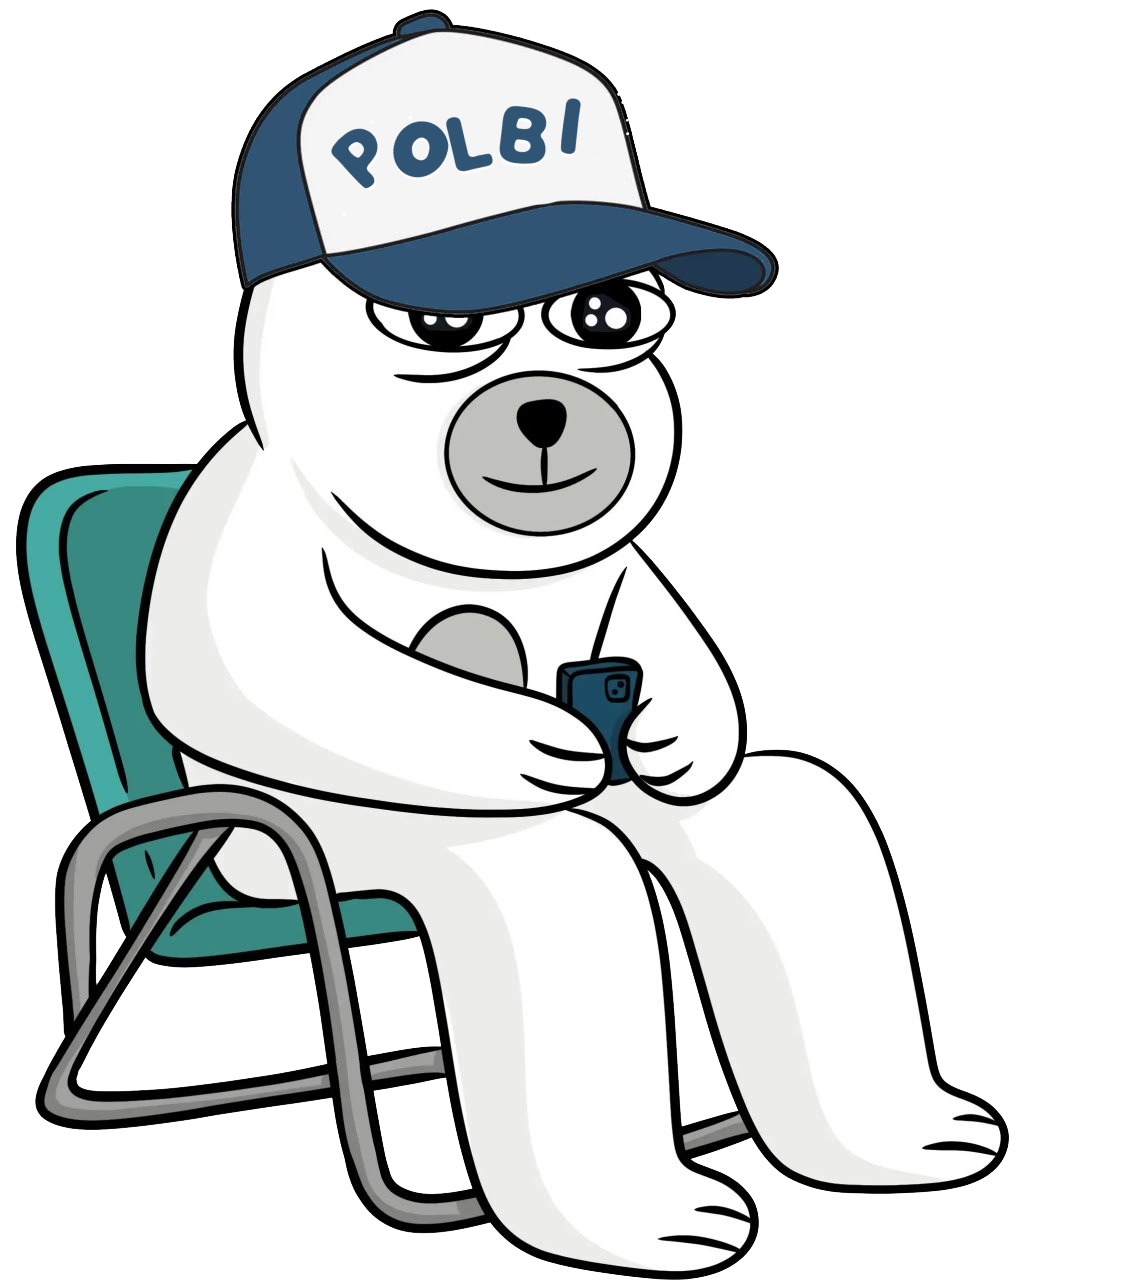
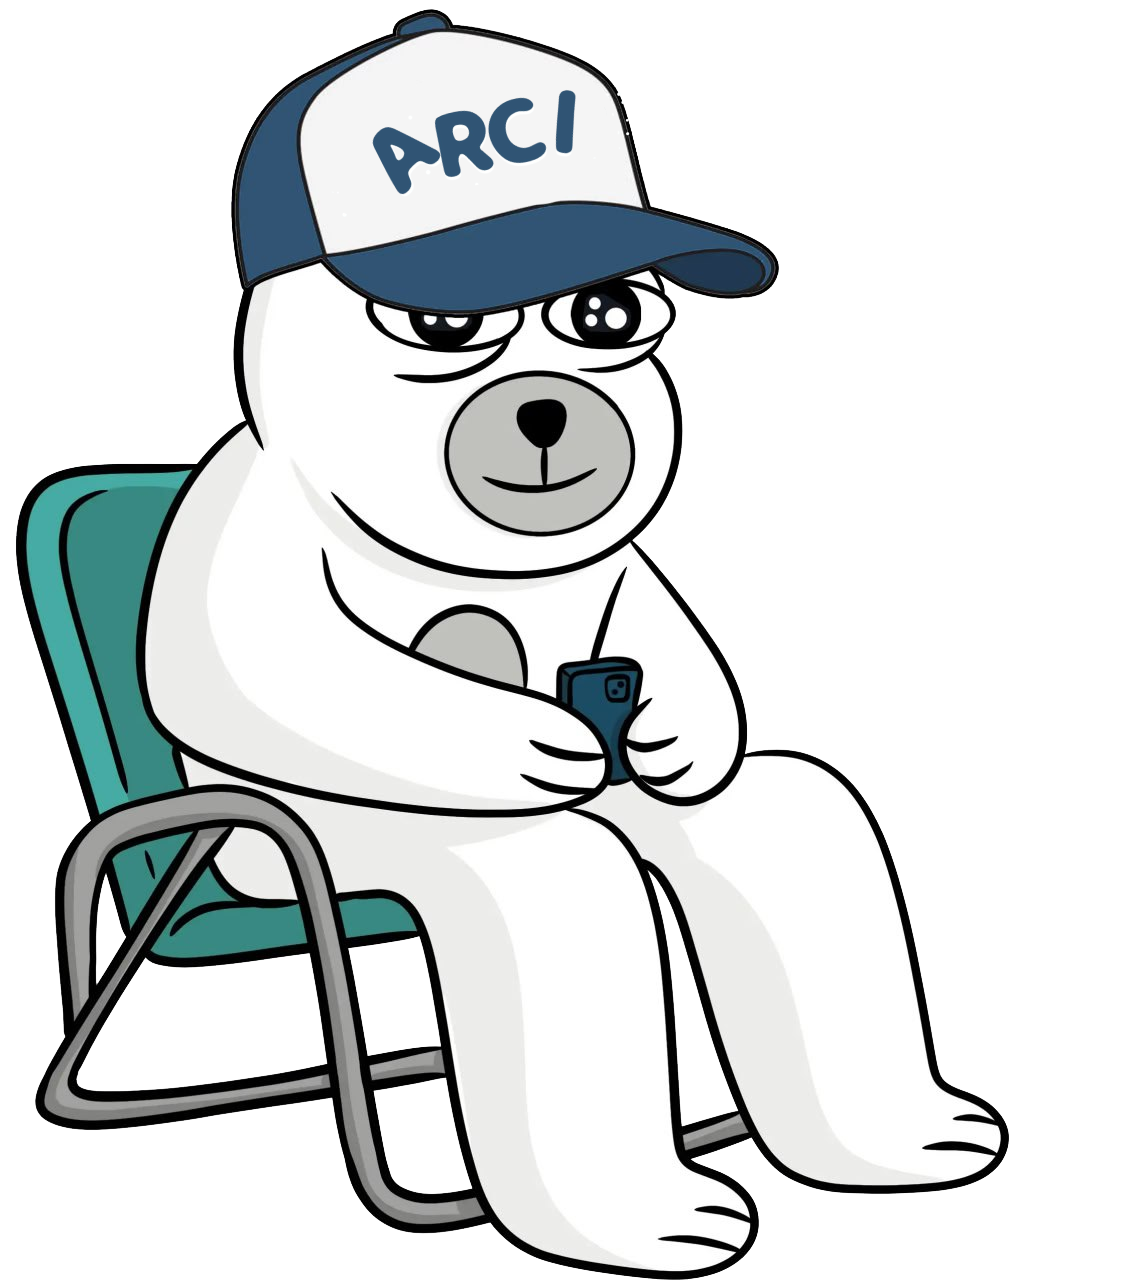
1

Changed region(s): [[0.2783, 0.0625, 0.5256, 0.1562]]

diff --git a/index.html b/index.html
@@ -16,14 +16,14 @@
 		<meta name="distribution" content="global"> 
 		<meta name="robots" content="index,follow"> 
 		<meta name="country" content="US">
-		<meta name="description" content="POLBI is the newest charismatic fluffy ruler of the frozen crypto tundra. This fun, decentralized, community-driven token is built on Solana Chain.">
+		<meta name="description" content="ARCI is the newest charismatic fluffy ruler of the frozen crypto tundra. This fun, decentralized, community-driven token is built on Solana Chain.">
 		<meta name="google-site-verification" content="">
 		
 		<!-- Open Graph Meta Tags -->
 		<meta property="og:type" content="website">
 		<meta property="og:url" content="">
-		<meta property="og:title" content="POLBI | The Official POLBI Bear on Solanachain">
-		<meta property="og:description" content="POLBI is the newest charismatic fluffy ruler of the frozen crypto tundra. This fun, decentralized, community-driven token is built on Solana Chain.">
+		<meta property="og:title" content="ARCI | The Official ARCI Bear on Solanachain">
+		<meta property="og:description" content="ARCI is the newest charismatic fluffy ruler of the frozen crypto tundra. This fun, decentralized, community-driven token is built on Solana Chain.">
 
 		
 
@@ -37,7 +37,7 @@
 		<meta name="msapplication-TileColor" content="#9c2730">
 		<meta name="theme-color" content="#ffffff">
 		
-		<title>POLBI | The Official Polar Bear on Solanachain</title>
+		<title>ARCI | The Official Polar Bear on Solanachain</title>
 		<link href="assets/css/include.css" rel="stylesheet">
 		<!-- Google tag (gtag.js) -->
 		<script async src="https://www.googletagmanager.com/gtag/js?id=G-083C66RB80"></script>
@@ -63,17 +63,17 @@
 				<div class="container position-relative z-1">
 					<div class="hero w-100">
 						<h1 class="banner milky display-l lh-1 hstack align-items-center justify-content-center text-blue-4">
-							<span style="margin-right: 40px">P</span>
-							<span>O</span>
-							<span>L</span>
-							<span>B</span>
+							<span style="margin-right: 40px">A</span>
+							<span>R</span>
+							<span>C</span>
 							<span>I</span>
+<!--							<span>I</span>-->
 <!--							<span style="rotate: -10deg; margin-left:40px; margin-right: 0px;">O</span>-->
 <!--							<span>R</span>-->
 
 						</h1>
 						<div class="vstack mx-auto col-12 col-xl-6 milky fs-3 text-center gap-1 lh-base text-blue-4">
-							<span>Hi I'm POLBI</span>
+							<span>Hi I'm ARCI</span>
 							<span>I'm the coldest, chillest, and funniest bear</span>
 							<span>in the entire SOLArctic. Welcome to my world.</span>
 						</div>
@@ -132,8 +132,8 @@
 				<div class="container py-5 position-relative">
 					<div class="d-flex flex-column col-12 col-lg-8 justify-content-center gap-4 text-center position-relative z-1 py-0 py-md-5 text-blue-4 milky">
 						<h2 class="display-3">A New King Has Risen</h2>
-						<p class="fs-5 lh-base">Meet POLBI, the latest ruler of the icy domains of cryptocurrency, a royal polar bear who's more chilled than the arctic ice and cooler than the other side of the pillow. Born on the vast, frostbitten landscapes of the Solana Chain, this fluffy monarch has swiftly ascended to the throne, not through bloodshed or conquest, but with sheer charisma and an unshakable belief in the power of meme magic.</p>
-						<p class="fs-5 lh-base">This is not your average bear. POLBI's reign is marked by his unorthodox approach to governance; he rules with a gentle paw and a heart as big as his appetite for salmon. In a world where seriousness often overshadows fun, POLBI dares to ask, "Why not both?" He's democratizing the crypto kingdom one belly slide at a time, proving that you can indeed mix business with pleasure and that every bear can have his fish and eat it too.</p>
+						<p class="fs-5 lh-base">Meet ARCI, the latest ruler of the icy domains of cryptocurrency, a royal polar bear who's more chilled than the arctic ice and cooler than the other side of the pillow. Born on the vast, frostbitten landscapes of the Solana Chain, this fluffy monarch has swiftly ascended to the throne, not through bloodshed or conquest, but with sheer charisma and an unshakable belief in the power of meme magic.</p>
+						<p class="fs-5 lh-base">This is not your average bear. ARCI's reign is marked by his unorthodox approach to governance; he rules with a gentle paw and a heart as big as his appetite for salmon. In a world where seriousness often overshadows fun, ARCI dares to ask, "Why not both?" He's democratizing the crypto kingdom one belly slide at a time, proving that you can indeed mix business with pleasure and that every bear can have his fish and eat it too.</p>
 					</div>
 				</div>
 				<div class="baby-pola"></div>
@@ -143,17 +143,17 @@
 					<div class="d-flex flex-column-reverse flex-md-row gap-4">
 						<div class="d-flex flex-column justify-content-center gap-4 col-12 col-md-6">
 							<div class="d-flex flex-column gap-1 text-blue-4">
-								<span class="fs-4 milky lh-base">POLBI on Solanachain</span>
-								<h2 class="milky display-s lh-1 ">OFFICIAL POLBI LINKS</h2>
+								<span class="fs-4 milky lh-base">ARCI on Solanachain</span>
+								<h2 class="milky display-s lh-1 ">OFFICIAL ARCI LINKS</h2>
 							</div>
 
 							<div class="d-flex flex-column gap-2">
 								<span class="fs-6 milky fw-bolder text-blue-4">Social &amp; Onchain Data</span>
 								<div class="socials hstack gap-3">
-									<a href="https://x.com/polbisolcoin" target="_blank">
+									<a href="https://x.com/arcionsol" target="_blank">
 										<div class="icon twitter rounded-circle"></div>
 									</a>
-									<a href="https://t.me/polbisol" target="_blank">
+									<a href="https://t.me/arcionsol" target="_blank">
 										<div class="icon telegram rounded-circle"></div>
 									</a>
 									<a href="#" target="_blank">
@@ -168,7 +168,7 @@
 								<span class="fs-6 milky fw-bolder text-blue-4">Exchanges (MORE TBA)</span>
 								<div class="row row-cols-2 row-cols-lg-3 g-3">
 									<div class="col">
-										<a href="https://pump.fun/12p96KQmFGWvuu2FREY172Jqk9tqjPgVdSitm2sVr777" target="_blank" class="h-100 btn btn-md btn-light rounded-pill w-100 py-2 px-3">
+										<a href="https://pump.fun/hB41sDCQgc85qCfetTfhs4JD3Yi4j2NUdBVTm6fKump" target="_blank" class="h-100 btn btn-md btn-light rounded-pill w-100 py-2 px-3">
 											<img src="assets/logos/pumpfun.svg" class="w-75 mt-1" alt="uniswap link">
 										</a>
 									</div>
@@ -191,10 +191,10 @@
 							</div-->
 						</div>
 						<div class="col-12 col-md-4 pola-in-phone">
-							<a class="polarmy-buble polarmy-link" href="https://t.me/polbisol"><img src="assets/images/pola-phone-bubble-r.png" class="w-100 " alt="click to join polarmy"></a>
-							<a href="https://t.me/polbisol"><img src="assets/images/pola-phone-r.png" class="w-100 " alt="pola having fun on tg"></a>
-							<a class="polarmy-buble polarmy-link" href="https://t.me/polbisol"><img src="assets/images/pola-phone-bubble-l.png" class="w-100 " alt="click to join polarmy"></a>
-							<a  href="https://t.me/polbisol"><img src="assets/images/pola-phone-l.png" class="w-100 " alt="pola having fun on tg"></a>
+							<a class="polarmy-buble polarmy-link" href="https://t.me/arcionsol"><img src="assets/images/pola-phone-bubble-r.png" class="w-100 " alt="click to join polarmy"></a>
+							<a href="https://t.me/arcionsol"><img src="assets/images/pola-phone-r.png" class="w-100 " alt="pola having fun on tg"></a>
+							<a class="polarmy-buble polarmy-link" href="https://t.me/arcionsol"><img src="assets/images/pola-phone-bubble-l.png" class="w-100 " alt="click to join polarmy"></a>
+							<a  href="https://t.me/arcionsol"><img src="assets/images/pola-phone-l.png" class="w-100 " alt="pola having fun on tg"></a>
 						</div>
 					</div>
 					
@@ -220,17 +220,17 @@
 			<section id="tokenomics" class="position-relative bg-blue-4 py-5 snow-cap">
 				<div class="container py-5 position-relative">
 					<div class="vstack gap-4 text-center mb-5 col-12 col-xl-6 mx-auto text-white milky">
-						<h2 class="display-1 shouxietongzhen gradient-txt-1">POLBInomics</h2>
-						<p class="fs-5 lh-base">Adhering to the ethos of decentralization, $POLBI adopted a strategy to ensure genuine community ownership and nurture growth with steadfast support from the community.</p>
+						<h2 class="display-1 shouxietongzhen gradient-txt-1">ARCInomics</h2>
+						<p class="fs-5 lh-base">Adhering to the ethos of decentralization, $ARCI adopted a strategy to ensure genuine community ownership and nurture growth with steadfast support from the community.</p>
 					</div>
 
 					<div class="d-flex flex-column flex-xl-row disclaimer rounded-4 p-3 border border-4 border-blue-1 shadow gap-3 col-12 col-xl-8 mx-auto mb-4 bg-white milky text-blue-4">
-						<a href="https://pump.fun/12p96KQmFGWvuu2FREY172Jqk9tqjPgVdSitm2sVr777"><button class="btn btn-lg btn-light px-3">
-							<span class="fw-bold fs-6 text-blue-4">Buy $POLBI</span>
+						<a href="https://pump.fun/hB41sDCQgc85qCfetTfhs4JD3Yi4j2NUdBVTm6fKump"><button class="btn btn-lg btn-light px-3">
+							<span class="fw-bold fs-6 text-blue-4">Buy $ARCI</span>
 						</button></a>
 						<div class="col-12 col-xl-10 hstack gap-3 justify-content-between rounded-3 border p-1 fs-6">
-							<span class="text-truncate fw-bold ms-3 contact">Contract address: 12p96KQmFGWvuu2FREY172Jqk9tqjPgVdSitm2sVr777</span>
-							<button class="btn btn-md btn-light copy" data-text="12p96KQmFGWvuu2FREY172Jqk9tqjPgVdSitm2sVr777">
+							<span class="text-truncate fw-bold ms-3 contact">Contract address: hB41sDCQgc85qCfetTfhs4JD3Yi4j2NUdBVTm6fKump</span>
+							<button class="btn btn-md btn-light copy" data-text="hB41sDCQgc85qCfetTfhs4JD3Yi4j2NUdBVTm6fKump">
 								<i class="bi bi-clipboard"></i>
 							</button>
 						</div>
@@ -303,7 +303,7 @@
 									<img src="assets/images/icons/base.svg" class="w-100" alt="base logo">
 								</div>
 								<h3 class="fw-bolder fs-1 milky text-uppercase lh-1">Secure Solana (BASE ETH)</h3>
-								<p class="fs-6 lh-base milky">Purchase Solanachain Ethereum (BASE), the foundational currency required for transactions on the base network where $POLBI operates. BASE ETH acts as the "gas" for transactions, including buying $POLBI.</p>
+								<p class="fs-6 lh-base milky">Purchase Solanachain Ethereum (BASE), the foundational currency required for transactions on the base network where $ARCI operates. BASE ETH acts as the "gas" for transactions, including buying $ARCI.</p>
 							</div>
 						</div>
 						<div class="col">
@@ -311,8 +311,8 @@
 								<div class="col-4 col-md-2">
 									<img src="assets/images/pola-5.webp" class="w-100" alt="buy pola">
 								</div>
-								<h3 class="fw-bolder fs-1 milky text-uppercase lh-1">Buy $POLBI</h3>
-								<p class="fs-6 lh-base milky">Use your newly acquired BASE ETH to purchase $POLBI tokens through a cryptocurrency exchange or decentralized exchange platform that lists $POLBI.</p>
+								<h3 class="fw-bolder fs-1 milky text-uppercase lh-1">Buy $ARCI</h3>
+								<p class="fs-6 lh-base milky">Use your newly acquired BASE ETH to purchase $ARCI tokens through a cryptocurrency exchange or decentralized exchange platform that lists $ARCI.</p>
 							</div>
 						</div>
 						<div class="col">
@@ -321,7 +321,7 @@
 									<img src="assets/images/icons/crypto-wallet.svg" class="w-100" alt="wallet logo">
 								</div>
 								<h3 class="fw-bolder fs-1 milky text-uppercase lh-1">Add To Your Wallet</h3>
-								<p class="fs-6 lh-base milky">Import $POLBI tokens into your MetaMask wallet by adding the pola token's contract address. This allows you to view and manage your $POLBI holdings directly within MetaMask.</p>
+								<p class="fs-6 lh-base milky">Import $ARCI tokens into your MetaMask wallet by adding the pola token's contract address. This allows you to view and manage your $ARCI holdings directly within MetaMask.</p>
 							</div>
 						</div>
 					</div>
@@ -339,8 +339,8 @@
 					
 						<img src="assets/images/VPN-Logo.svg" class="vpn-logo" alt="pola vpn logo">
 						
-						<h2 class="text-nowrap milky display-s lh-1">POLBI VPN</h2>
-						<span class="text-center fs-6 lh-base milky">POLBIVPN is the very first memecoin to have this feature. it is your gateway to a secure and unrestricted online experience, designed with your privacy in mind. Whether you're browsing, streaming, or working remotely, POLBIVPN ensures your data stays protected and your connections remain anonymous.</span>
+						<h2 class="text-nowrap milky display-s lh-1">ARCI VPN</h2>
+						<span class="text-center fs-6 lh-base milky">ARCIVPN is the very first memecoin to have this feature. it is your gateway to a secure and unrestricted online experience, designed with your privacy in mind. Whether you're browsing, streaming, or working remotely, ARCIVPN ensures your data stays protected and your connections remain anonymous.</span>
 						<div class="vpn-button-container" >
 							<button type="button" id="openISOApp" class="vpn-button border btn btn-light rounded-pill milky py-4 p-5 hstack gap-3 justify-content-center w-48">
 								<span class="fw-bolder fs-4">Android App soon</span>
@@ -397,10 +397,10 @@
 								<img src="assets/images/nfts/10.webp" alt="pola nft">
 							</div>
 						</div>
-						<h2 class="display-s lh-1 milky text-blue-4">POLBI NFT</h2>
+						<h2 class="display-s lh-1 milky text-blue-4">ARCI NFT</h2>
 						<div class="vstack gap-3 fs-6 fw-normal lh-base text-dark text-opacity-75">
-							<p>Explore POLBI NFT, an enchanting collection of 5,000 NFTs, released on Solana drawing inspiration from a cherished polar bear, these NFTs capture the essence and spirit of a unique polar bear-inspired theme.</p>
-							<p>Owning a POLBI NFT connects you to the dynamic community surrounding this theme, signifying your appreciation and embrace of the unique culture these digital assets symbolize.</p>
+							<p>Explore ARCI NFT, an enchanting collection of 5,000 NFTs, released on Solana drawing inspiration from a cherished polar bear, these NFTs capture the essence and spirit of a unique polar bear-inspired theme.</p>
+							<p>Owning a ARCI NFT connects you to the dynamic community surrounding this theme, signifying your appreciation and embrace of the unique culture these digital assets symbolize.</p>
 						</div>
 						<div>
 							<span class="fw-bold fw-bold py-2 rounded-pill">Collection Coming Soon</span>
@@ -417,14 +417,14 @@
 							<div class="d-flex flex-column gap-1 text-blue-4">
 								<span class="fs-4 milky">Ice Cream Products</span>
 								<div class="hstack">
-									<h2 id="data-title" class="text-nowrap milky display-s lh-1">POLBIPops</h2>
+									<h2 id="data-title" class="text-nowrap milky display-s lh-1">ARCIPops</h2>
 									<span class="fs-2 fw-bold lh-1">ⓒ</span>
 								</div>
-								<span id="data-description" class="fs-6 lh-base milky">POLBI Pops brings a refreshing twist to your favorite frozen treat! Our ice creams are handcrafted with natural ingredients, offering a burst of flavors that are as unique as they are delicious. From the classic creamy delights to exotic fruit-filled wonders, each POLBI Pop is designed to provide a blissful escape into a world of sweet, frosty pleasure.</span>
+								<span id="data-description" class="fs-6 lh-base milky">ARCI Pops brings a refreshing twist to your favorite frozen treat! Our ice creams are handcrafted with natural ingredients, offering a burst of flavors that are as unique as they are delicious. From the classic creamy delights to exotic fruit-filled wonders, each ARCI Pop is designed to provide a blissful escape into a world of sweet, frosty pleasure.</span>
 							</div>
 
 							<div class="d-flex flex-column gap-4">
-								<span class="fs-3 milky text-blue-4">POLBIPops Flavors</span>
+								<span class="fs-3 milky text-blue-4">ARCIPops Flavors</span>
 								<div class="row row-cols-3 row-cols-md-5 g-3 ice-creams">
 																		<div data-id="1" class="col data-source">
 										<a role="button" data-image="assets/flavors/1.webp" class="vstack h-100 rounded-4 p-3 gap-3 text-center">
@@ -493,7 +493,7 @@
 								<span class="fw-bold fs-6">Legal Disclaimer</span>
 								<i class="bi bi-arrow-down-circle-fill"></i>
 							</a>
-							<p id="legal" class="p-3 fs-7 lh-base d-none text-white">The content on the POLBI Token website is not meant to be understood as investment, financial, trading, or any form of advice, and should not be interpreted as such. POLBI Token does not suggest that any should be bought, sold, or held by you. It is important to perform your own thorough research and consult with your financial advisor prior to making any investment decisions. By acquiring POLBI Token, you acknowledge that you are not obtaining a security or investment and you agree to absolve POLBI Token of any responsibility for any losses or taxes you may face. Additionally, you accept that POLBI Token is offered "as is" without any obligation for support or services. Expectations from POLBI Token should be none. Although POLBI Token is designed for social networking and is not a registered digital currency, it is highly advised that individuals in locations where is banned by the government refrain from purchasing it, as POLBI Token cannot guarantee adherence to the legal requirements of your region. Always ensure your actions are in full compliance with local laws and regulations before making any purchases.</p>
+							<p id="legal" class="p-3 fs-7 lh-base d-none text-white">The content on the ARCI Token website is not meant to be understood as investment, financial, trading, or any form of advice, and should not be interpreted as such. ARCI Token does not suggest that any should be bought, sold, or held by you. It is important to perform your own thorough research and consult with your financial advisor prior to making any investment decisions. By acquiring ARCI Token, you acknowledge that you are not obtaining a security or investment and you agree to absolve ARCI Token of any responsibility for any losses or taxes you may face. Additionally, you accept that ARCI Token is offered "as is" without any obligation for support or services. Expectations from ARCI Token should be none. Although ARCI Token is designed for social networking and is not a registered digital currency, it is highly advised that individuals in locations where is banned by the government refrain from purchasing it, as ARCI Token cannot guarantee adherence to the legal requirements of your region. Always ensure your actions are in full compliance with local laws and regulations before making any purchases.</p>
 						</div>
 
 						<div class="vstack disclaimer rounded-4 shadow-sm">
@@ -506,11 +506,11 @@
 
 						<div class="d-flex flex-column flex-xl-row disclaimer rounded-4 p-3 shadow gap-3">
 							<button class="btn btn-lg btn-light px-3">
-								<a class="fw-bold fs-6 text-nowrap text-black" href="https://pump.fun/12p96KQmFGWvuu2FREY172Jqk9tqjPgVdSitm2sVr777" target="_blank">Buy $POLBI</a>
+								<a class="fw-bold fs-6 text-nowrap text-black" href="https://pump.fun/hB41sDCQgc85qCfetTfhs4JD3Yi4j2NUdBVTm6fKump" target="_blank">Buy $ARCI</a>
 							</button>
 							<div class="col-12 col-xl-10 text-white hstack gap-3 justify-content-between rounded-3 border p-1 fs-6">
-								<span class="text-truncate fw-bold ms-3 contact">Contract address: 12p96KQmFGWvuu2FREY172Jqk9tqjPgVdSitm2sVr777</span>
-								<button class="btn btn-md btn-light copy" data-text="12p96KQmFGWvuu2FREY172Jqk9tqjPgVdSitm2sVr777">
+								<span class="text-truncate fw-bold ms-3 contact">Contract address: hB41sDCQgc85qCfetTfhs4JD3Yi4j2NUdBVTm6fKump</span>
+								<button class="btn btn-md btn-light copy" data-text="hB41sDCQgc85qCfetTfhs4JD3Yi4j2NUdBVTm6fKump">
 									<i class="bi bi-clipboard"></i>
 								</button>
 							</div>
@@ -520,10 +520,10 @@
 							<div class="col-12 col-md-4">
 								<div class="vstack gap-3">
 									<img src="assets/logos/pola.svg" class="col-8" alt="pola logo">
-									<small class="d-block mb-3">Collect, create, and engage with POLBI!</small>
+									<small class="d-block mb-3">Collect, create, and engage with ARCI!</small>
 									<div class="hstack gap-4">
-										<a href="https://x.com/polbisolcoin" target="_blank" class="fs-4"><i class="bi bi-twitter"></i></a>
-										<a href="https://t.me/polbisol" target="_blank" class="fs-4"><i class="bi bi-telegram"></i></a>
+										<a href="https://x.com/arcionsol" target="_blank" class="fs-4"><i class="bi bi-twitter"></i></a>
+										<a href="https://t.me/arcionsol" target="_blank" class="fs-4"><i class="bi bi-telegram"></i></a>
 									</div>
 								</div>
 							</div>
@@ -537,13 +537,13 @@
 		<div class="menu text-nowrap rounded-pill position-fixed bottom-0 z-3 bg-white border border-4 shadow d-none d-lg-block">
 			<div class="menu-list hstack gap-1">
 								<a href="#home" class="d-none d-md-block btn rounded-pill active.">Home</a>
-								<a href="#about" class="d-none d-md-block btn rounded-pill">About POLBI</a>
+								<a href="#about" class="d-none d-md-block btn rounded-pill">About ARCI</a>
 								<a href="#links" class="d-none d-md-block btn rounded-pill">Ecosystem</a>
 								<a href="#tokenomics" class="d-none d-md-block btn rounded-pill">Tokenomics</a>
 
 								<a href="#vpn" class="d-none d-md-block btn rounded-pill">VPN</a>
 								<a href="#nft" class="d-none d-md-block btn rounded-pill">NFT</a>
-								<a href="#popsicles" class="d-none d-md-block btn rounded-pill">POLBIPops</a>
+								<a href="#popsicles" class="d-none d-md-block btn rounded-pill">ARCIPops</a>
 								<a href="#" class="d-block d-md-none hamburger-menu">
 					<div></div>
 					<div></div>
